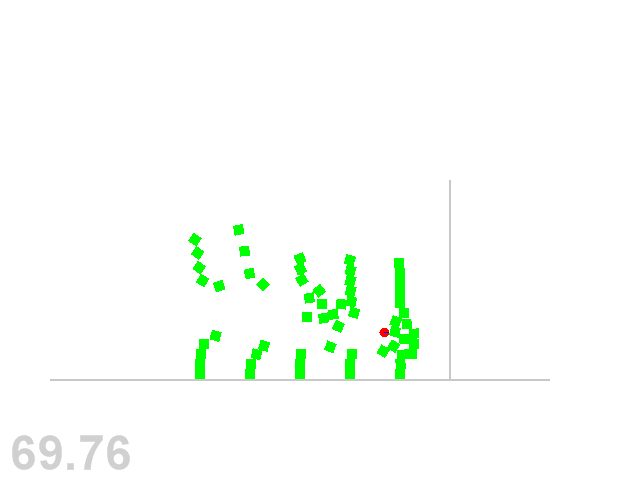
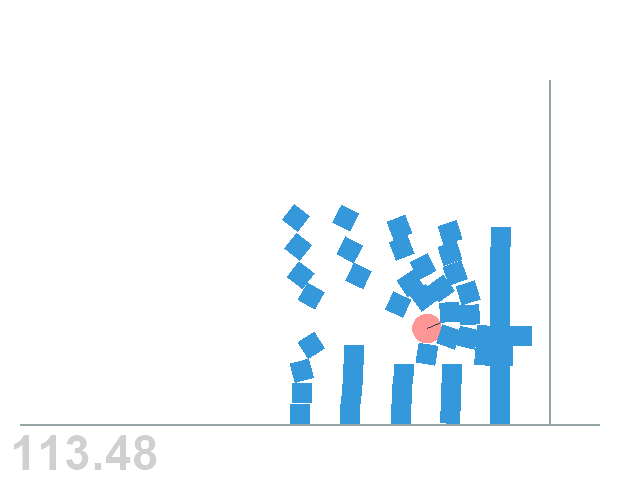
fixed all pygame/pyglet examples

Changed region(s): [[0.0, 0.4062, 0.9375, 1.0], [0.2812, 0.4688, 0.3438, 0.625], [0.3438, 0.4688, 0.4062, 0.5312]]

diff --git a/examples/shapes_for_draw_demos.py b/examples/shapes_for_draw_demos.py
@@ -8,7 +8,7 @@ def fill_space(space, custom_color=(255,255,0,255)):
     captions = []
     
     ### Static
-    captions.append(((50,20), "Static Shapes"))
+    captions.append(((50,680), "Static Shapes"))
 
     #Static Segments
     segments = [ pymunk.Segment(space.static_body, (10, 400), (10, 600), 0)
@@ -61,7 +61,7 @@ def fill_space(space, custom_color=(255,255,0,255)):
     space.add(s)
     
     ### Kinematic
-    captions.append(((220,20), "Kinematic Shapes"))
+    captions.append(((220,680), "Kinematic Shapes"))
 
     # Kinematic Segments
     b = pymunk.Body(body_type=pymunk.Body.KINEMATIC)
@@ -115,7 +115,7 @@ def fill_space(space, custom_color=(255,255,0,255)):
     space.add(s)
     
     ### Dynamic
-    captions.append(((390,20), "Dynamic Shapes"))
+    captions.append(((390,680), "Dynamic Shapes"))
 
     #Dynamic Segments
     b = pymunk.Body(1,1)
@@ -170,7 +170,7 @@ def fill_space(space, custom_color=(255,255,0,255)):
     ###Constraints
     
     # PinJoints
-    captions.append(((560,20), "Pin Joints"))
+    captions.append(((560,660), "Pin Joints"))
     a = pymunk.Body(1,1)
     a.position = (550, 600)
     sa = pymunk.Circle(a, 20)
@@ -190,7 +190,7 @@ def fill_space(space, custom_color=(255,255,0,255)):
     space.add(sa, sb, a, b, j)
     
     # SlideJoints
-    captions.append(((560,200), "Slide Joint"))
+    captions.append(((560,490), "Slide Joint"))
     a = pymunk.Body(1,1)
     a.position = (550,430)
     sa = pymunk.Circle(a, 20)
@@ -201,7 +201,7 @@ def fill_space(space, custom_color=(255,255,0,255)):
     space.add(sa, sb, a, b, j)
     
     # PivotJoints
-    captions.append(((560,300), "Pivot Joint"))
+    captions.append(((560,390), "Pivot Joint"))
     a = pymunk.Body(1,1)
     a.position = (550,330)
     sa = pymunk.Circle(a, 20)
@@ -213,24 +213,71 @@ def fill_space(space, custom_color=(255,255,0,255)):
     
 
     # GrooveJoints
-    captions.append(((560,300), "Groove Joint"))
+    captions.append(((760,660), "Groove Joint"))
     a = pymunk.Body(1,1)
-    a.position = (550,330)
+    a.position = (750,600)
     sa = pymunk.Circle(a, 20)
     b = pymunk.Body(1,1)
-    b.position = (650,350)
+    b.position = (850,620)
     sb = pymunk.Circle(b, 20)
-    j = pymunk.PivotJoint(a, b, (600,320))
+    j = pymunk.GrooveJoint(a, b, (790,610), (790,620), (840,620))
     space.add(sa, sb, a, b, j)
     
+    # DampedSpring
+    captions.append(((760,550), "Damped Spring"))
+    a = pymunk.Body(1,1)
+    a.position = (750,480)
+    sa = pymunk.Circle(a, 20)
+    b = pymunk.Body(1,1)
+    b.position = (850,500)
+    sb = pymunk.Circle(b, 20)
+    j = pymunk.DampedSpring(a, b, (0,0), (0,10), 100, 1,1)
+    space.add(sa, sb, a, b, j)
     
+    # DampedRotarySpring
+    captions.append(((740,430), "Damped Rotary Spring"))
+    a = pymunk.Body(1,1)
+    a.position = (750,350)
+    sa = pymunk.Circle(a, 20)
+    b = pymunk.Body(1,1)
+    b.position = (850,380)
+    sb = pymunk.Circle(b, 20)
+    j = pymunk.DampedRotarySpring(a, b, 10, 1, 1)
+    space.add(sa, sb, a, b, j)
+
+    # RotaryLimitJoint
+    captions.append(((740,300), "Rotary Limit Joint"))
+    a = pymunk.Body(1,1)
+    a.position = (750,220)
+    sa = pymunk.Circle(a, 20)
+    b = pymunk.Body(1,1)
+    b.position = (850,250)
+    sb = pymunk.Circle(b, 20)
+    j = pymunk.RotaryLimitJoint(a, b, 1, 2)
+    b.angle = 3
+    space.add(sa, sb, a, b, j)
+
+    # RatchetJoint
+    captions.append(((740,170), "Ratchet Joint"))
+    a = pymunk.Body(1,1)
+    a.position = (750,100)
+    sa = pymunk.Circle(a, 20)
+    b = pymunk.Body(1,1)
+    b.position = (850,120)
+    sb = pymunk.Circle(b, 20)
+    j = pymunk.RatchetJoint(a, b, 1, 0.1)
+    b.angle = 3
+    space.add(sa, sb, a, b, j)
+
+    # GearJoint and SimpleMotor omitted since they are similar to the already 
+    # added joints
 
     # TODO: more stuff here :)
     
     ### Other
     
     # Objects in custom color
-    captions.append(((150,550), "Custom Color (static & dynamic)"))
+    captions.append(((150,150), "Custom Color (static & dynamic)"))
     b = pymunk.Body(body_type=pymunk.Body.STATIC)
     b.position = (200, 200)
     s = pymunk.Circle(b, 40)
@@ -244,7 +291,7 @@ def fill_space(space, custom_color=(255,255,0,255)):
     space.add(s)
     
     # Collision
-    captions.append(((500,550), "Collisions"))
+    captions.append(((450,150), "Collisions"))
     b = pymunk.Body(body_type=pymunk.Body.STATIC)
     b.position = (470, 200)
     s = pymunk.Circle(b, 40)
@@ -256,7 +303,7 @@ def fill_space(space, custom_color=(255,255,0,255)):
     space.add(s)
 
     # Sleeping
-    captions.append(((50,550), "Sleeping"))
+    captions.append(((50,150), "Sleeping"))
     b = pymunk.Body(1,1)
     b.position = (75, 200)
     space.sleep_time_threshold = 0.01

diff --git a/examples/pyglet_util_demo.py b/examples/pyglet_util_demo.py
@@ -16,30 +16,30 @@ import pymunk.pyglet_util
 
 import shapes_for_draw_demos
 
-window = pyglet.window.Window(1000, 700)
+window = pyglet.window.Window(1000, 700, vsync=False)
 space = pymunk.Space()
-
-shapes_for_draw_demos.fill_space(space)
+draw_options = pymunk.pyglet_util.DrawOptions()
+captions = shapes_for_draw_demos.fill_space(space)
 
 
 textbatch = pyglet.graphics.Batch()
 pyglet.text.Label('Demo example of shapes drawn by pyglet_util.draw()',
-                      x=5, y=5, batch=textbatch, color=(200,200,200,200))
-pyglet.text.Label('Static shapes', x=50, y=570, batch=textbatch)
-pyglet.text.Label('Dynamic shapes', x=250, y=570, batch=textbatch)
-pyglet.text.Label('Constraints', x=450, y=570, batch=textbatch)
-pyglet.text.Label('Other', x=450, y=290, batch=textbatch)
-
+                      x=5, y=5, batch=textbatch, color=(100,100,100,255))
+for caption in captions:
+    x, y = caption[0]
+    y = y - 10
+    pyglet.text.Label(caption[1], x=x, y=y, batch=textbatch, color=(50,50,50,255))
 
 batch = pyglet.graphics.Batch()
 
+# otherwise save screenshot wont work
+_ = pyglet.clock.ClockDisplay()
+
 @window.event
 def on_draw():
-    pyglet.gl.glClearColor(0,0,0,1)
+    pyglet.gl.glClearColor(255,255,255,255)
     window.clear()
-    
-    options = pymunk.pyglet_util.DrawOptions()
-    space.debug_draw(options)
+    space.debug_draw(draw_options)
     textbatch.draw()
     
 @window.event

diff --git a/examples/damped_rotary_spring_pointer.py b/examples/damped_rotary_spring_pointer.py
@@ -50,7 +50,7 @@ def main():
             elif event.type == KEYDOWN and event.key == K_ESCAPE:
                 running = False
             elif event.type == KEYDOWN and event.key == K_p:
-                pygame.image.save(screen, "aiming.png")
+                pygame.image.save(screen, "damped_rotary_sprint_pointer.png")
             elif event.type == pygame.MOUSEMOTION:
                 mouse_pos = pymunk.pygame_util.get_mouse_pos(screen)
                 pointer_body.position = mouse_pos

diff --git a/examples/pygame_util_demo.py b/examples/pygame_util_demo.py
@@ -37,7 +37,9 @@ def main():
     color = pygame.color.THECOLORS["black"]
     screen.blit(font.render("Demo example of pygame_util.DrawOptions()", 1, color), (205, 680))
     for caption in captions:
-        screen.blit(font.render(caption[1], 1, color), caption[0])
+        x, y = caption[0]
+        y = 700 - y
+        screen.blit(font.render(caption[1], 1, color), (x,y))
     pygame.display.flip()
     
     while True:

diff --git a/examples/slide_and_pinjoint.py b/examples/slide_and_pinjoint.py
@@ -63,6 +63,8 @@ def main():
                 sys.exit(0)
             elif event.type == KEYDOWN and event.key == K_ESCAPE:
                 sys.exit(0)
+            elif event.type == KEYDOWN and event.key == K_p:
+                pygame.image.save(screen, "slide_and_pinjoint.png")
 
         ticks_to_next_ball -= 1
         if ticks_to_next_ball <= 0:

diff --git a/pymunk/pyglet_util.py b/pymunk/pyglet_util.py
@@ -152,6 +152,7 @@ class DrawOptions(pymunk.SpaceDebugDrawOptions):
         pv2 = Vec2d(b)
         d = pv2 - pv1
         a = -math.atan2(d.x, d.y)
+        radius = max(radius, 1)
         dx = radius * math.cos(a)
         dy = radius * math.sin(a)
         
